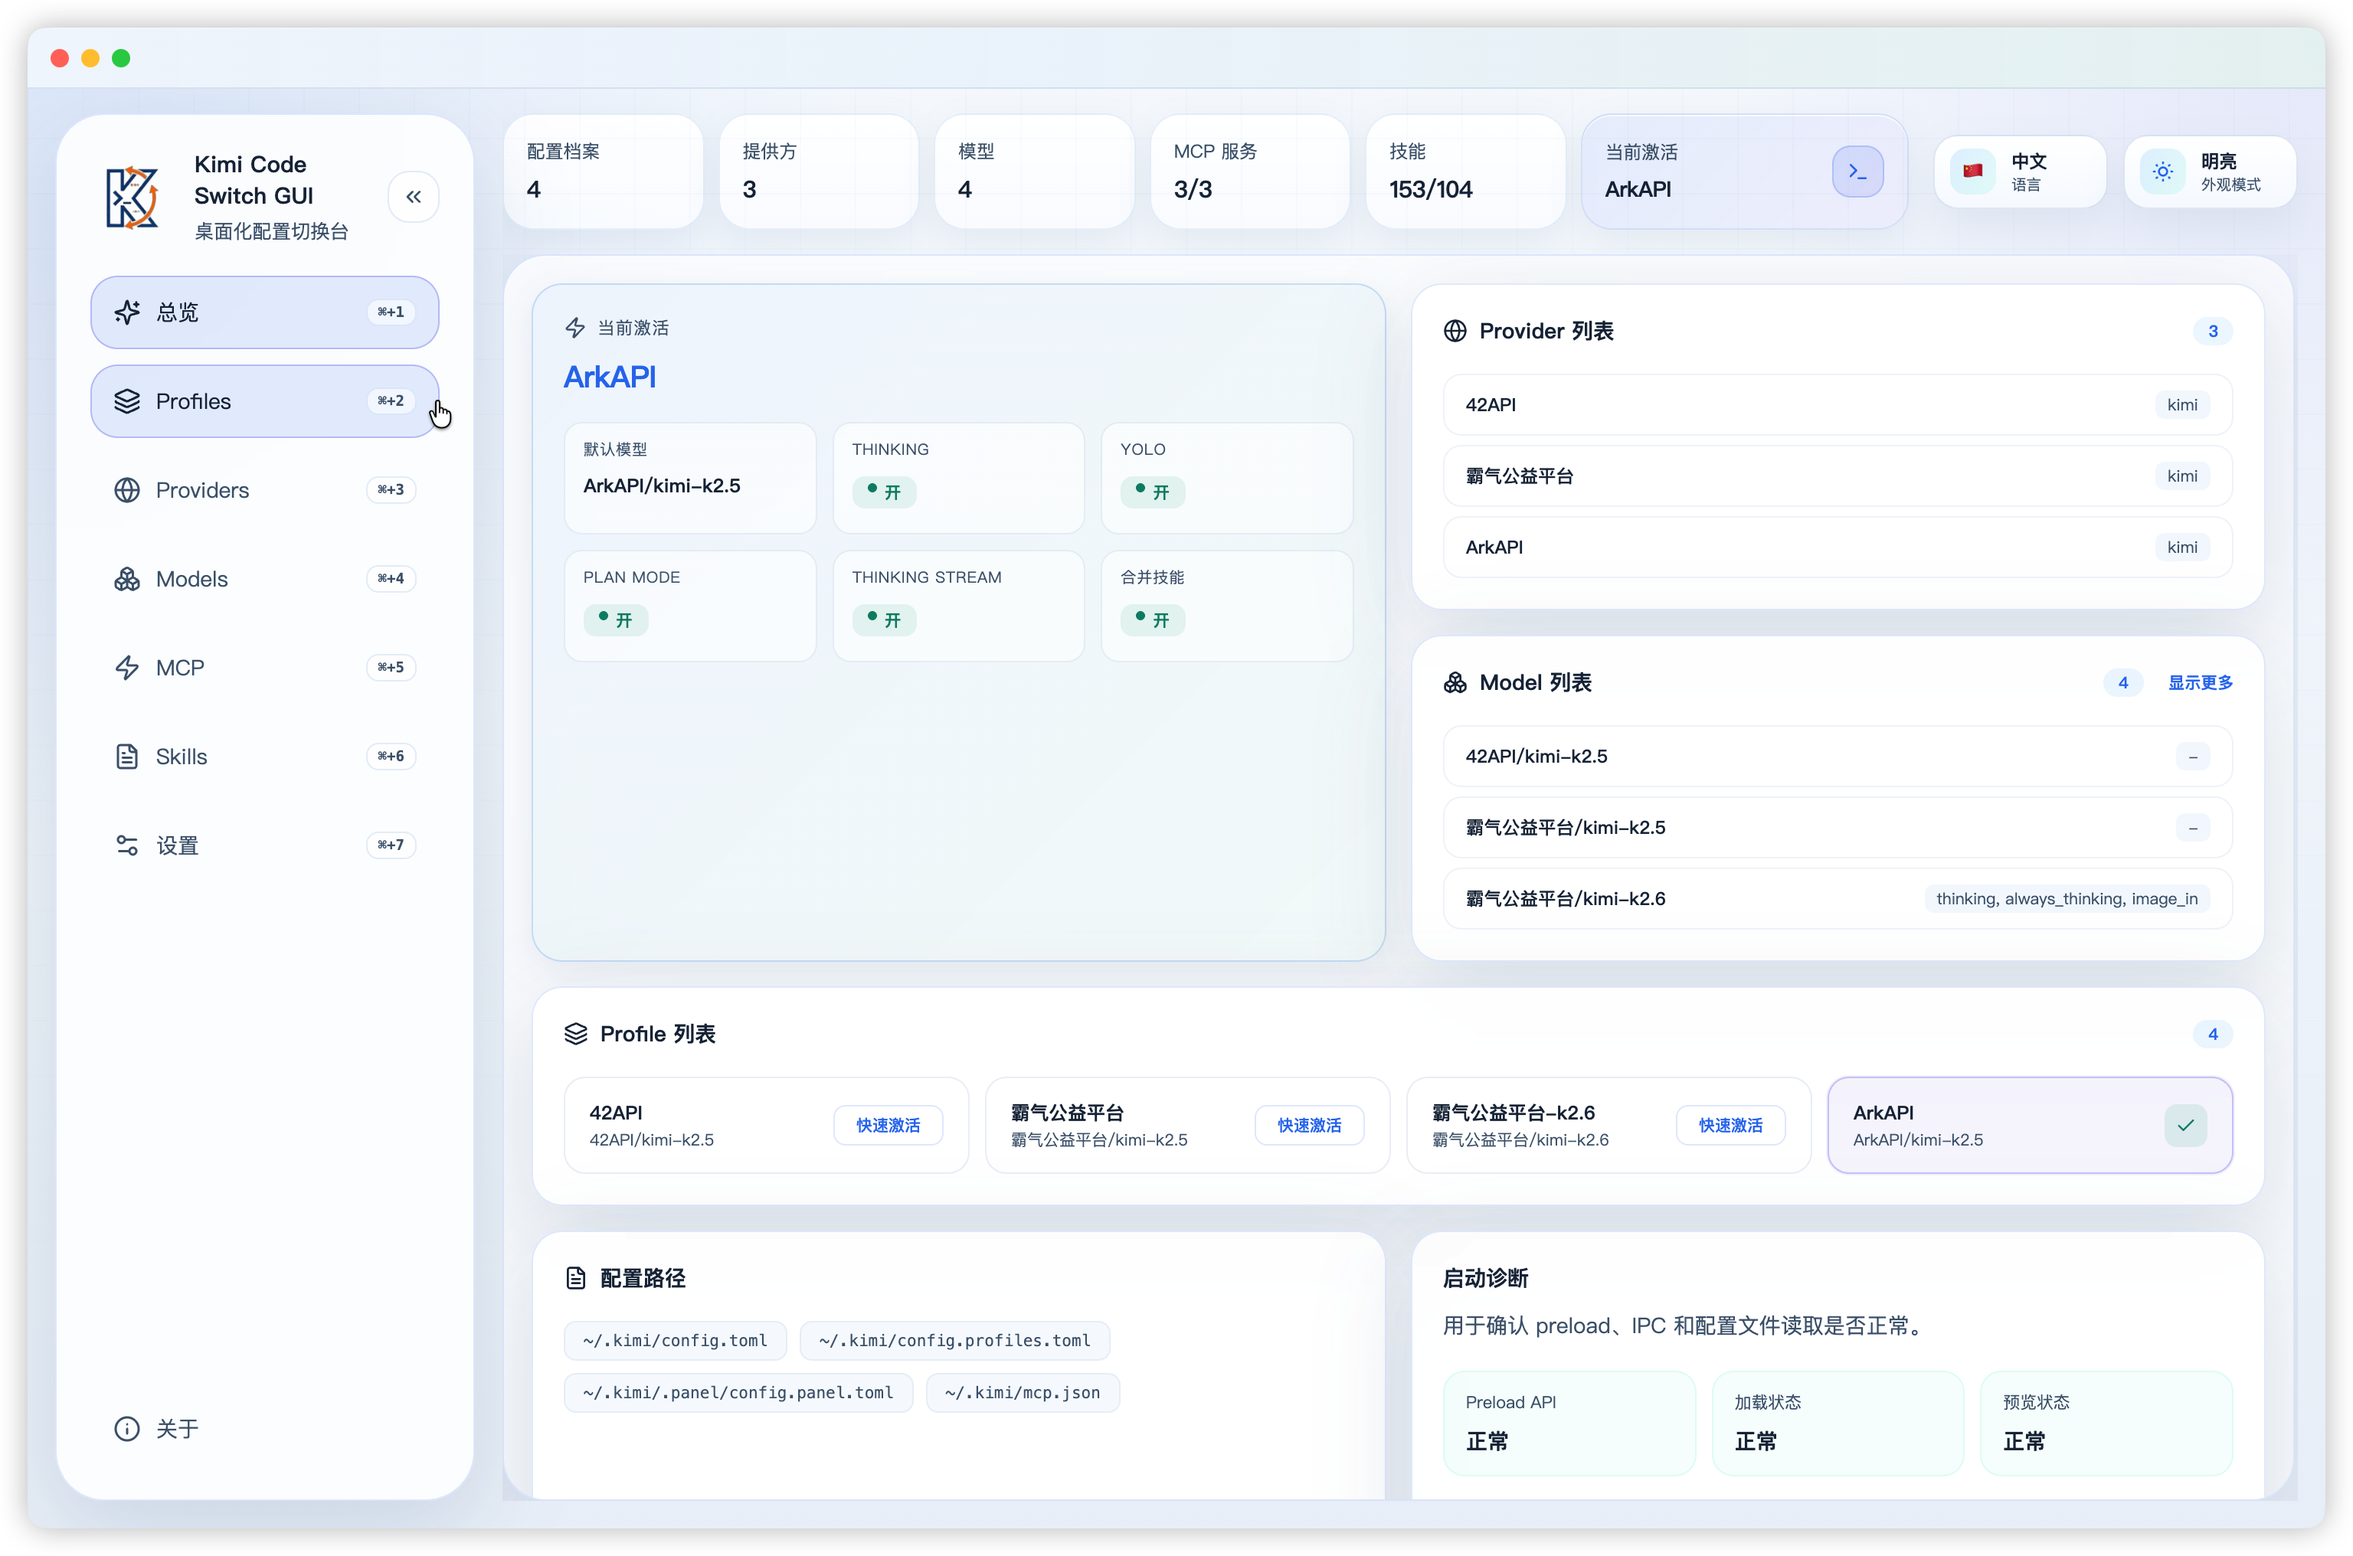
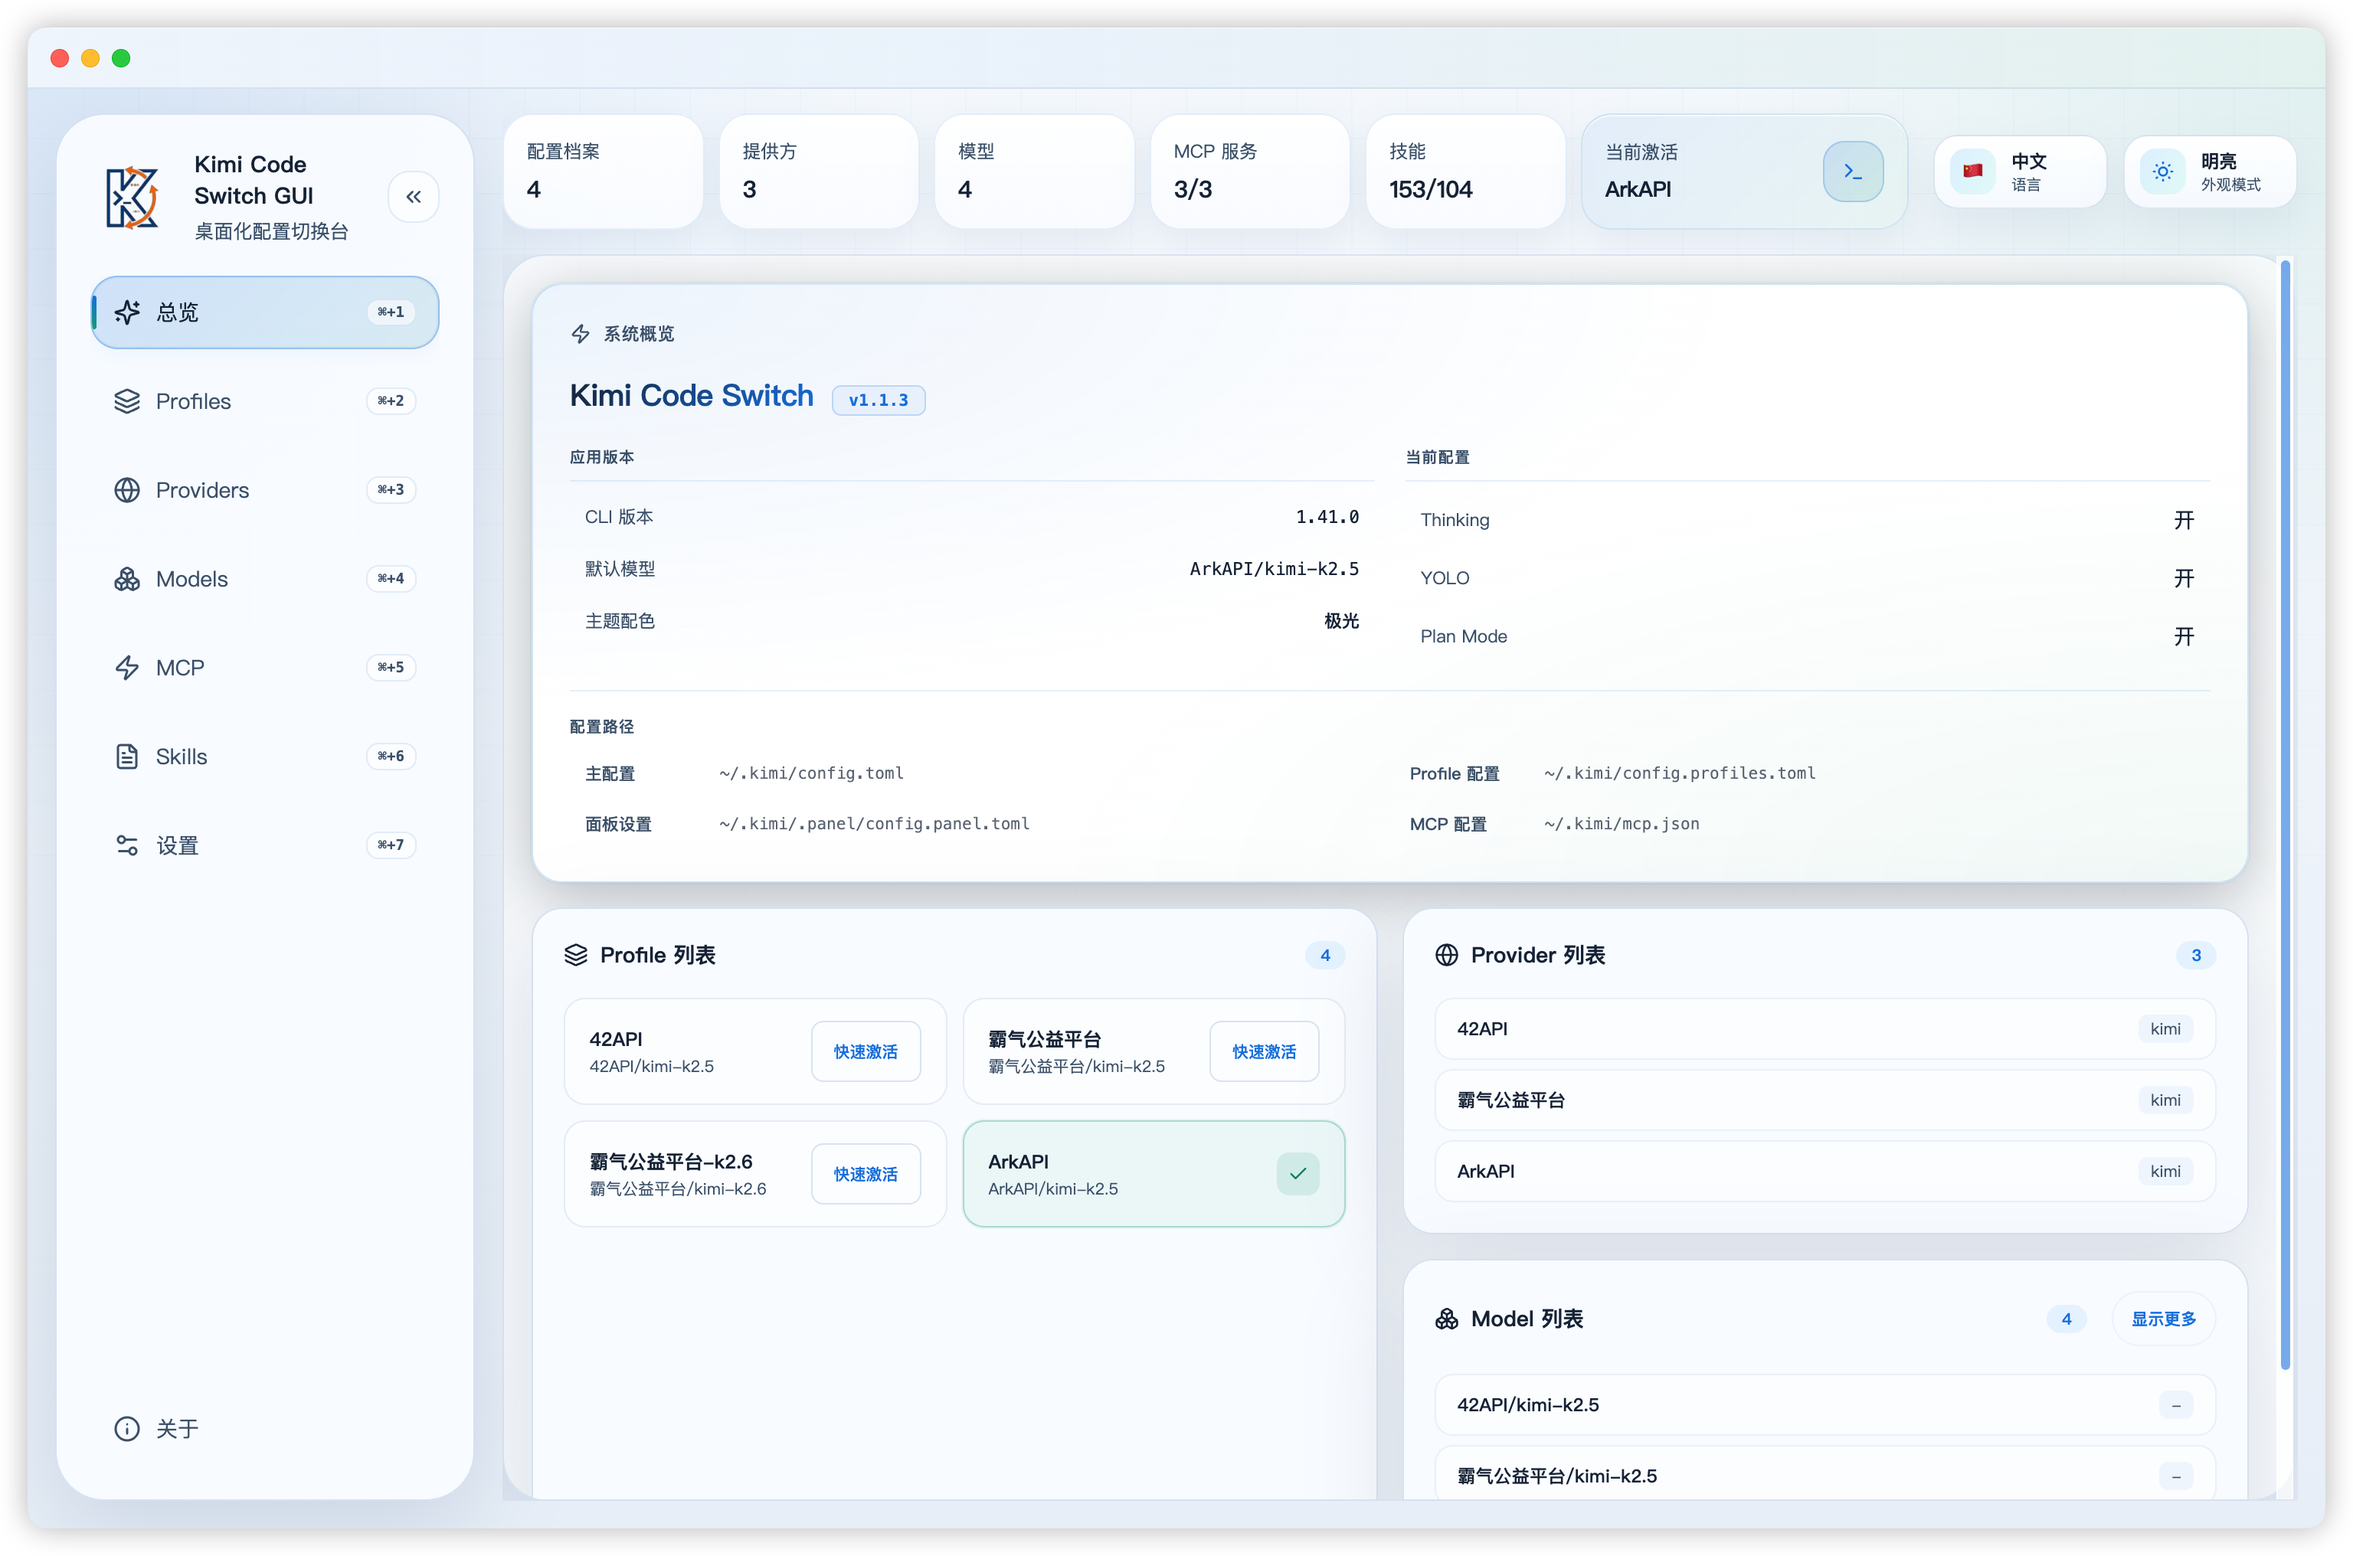
fix: remove transition effects and backdrop filters for improved layout performance

diff --git a/src/renderer/src/styles.css b/src/renderer/src/styles.css
@@ -191,7 +191,7 @@ textarea:focus-visible {
   min-width: 0;
   height: 100vh;
   overflow: hidden;
-  transition: grid-template-columns 200ms cubic-bezier(0.4, 0, 0.2, 1);
+  /* No transition on grid - layout changes are instant */
 }
 
 .shell.sidebar-collapsed {
@@ -210,7 +210,6 @@ textarea:focus-visible {
   background:
     linear-gradient(90deg, rgba(15, 36, 67, 0.96) 0%, rgba(12, 31, 56, 0.88) 42%, rgba(10, 44, 55, 0.82) 100%);
   border-bottom: 1px solid rgba(124, 179, 255, 0.12);
-  backdrop-filter: blur(18px);
 }
 
 :root[data-theme="light"] .window-titlebar {
@@ -236,10 +235,9 @@ textarea:focus-visible {
 }
 
 .glass-panel {
-  background: var(--panel);
+  background: var(--panel-strong);
   border: 1px solid var(--line);
   box-shadow: var(--shadow);
-  backdrop-filter: blur(22px);
 }
 
 .drag-region {
@@ -266,10 +264,7 @@ textarea:focus-visible {
   height: calc(100vh - var(--titlebar-height) - 34px);
   overflow: hidden;
   min-width: 0;
-  transition:
-    width 200ms cubic-bezier(0.4, 0, 0.2, 1),
-    padding 200ms cubic-bezier(0.4, 0, 0.2, 1),
-    border-radius 200ms cubic-bezier(0.4, 0, 0.2, 1);
+  contain: layout style;
 }
 
 .shell.sidebar-collapsed .sidebar {
@@ -298,9 +293,6 @@ textarea:focus-visible {
   place-items: center;
   width: 54px;
   height: 54px;
-  transition:
-    width 200ms cubic-bezier(0.4, 0, 0.2, 1),
-    height 200ms cubic-bezier(0.4, 0, 0.2, 1);
 }
 
 .shell.sidebar-collapsed .brand-mark {
@@ -644,6 +636,7 @@ textarea:focus-visible {
   overflow: hidden;
   min-width: 0;
   min-height: 0;
+  contain: layout style;
 }
 
 .content-scroll {
@@ -694,7 +687,6 @@ textarea:focus-visible {
   background:
     radial-gradient(circle at top, rgba(87, 177, 255, 0.1), transparent 34%),
     rgba(4, 10, 20, 0.26);
-  backdrop-filter: blur(14px) saturate(1.08);
 }
 
 :root[data-theme="light"] .confirm-dialog-backdrop,
@@ -1685,7 +1677,6 @@ textarea:focus-visible {
   border: 1px solid var(--line);
   background: rgba(8, 17, 31, 0.92);
   box-shadow: 0 24px 50px rgba(2, 8, 18, 0.34);
-  backdrop-filter: blur(24px);
   opacity: 0;
   visibility: hidden;
   transform: translateY(8px) scale(0.98);
@@ -2061,7 +2052,6 @@ textarea:focus-visible {
     0 28px 66px rgba(1, 8, 17, 0.42),
     0 0 0 1px rgba(87, 177, 255, 0.08),
     inset 0 1px 0 rgba(255, 255, 255, 0.08);
-  backdrop-filter: blur(24px) saturate(1.25);
   opacity: 0;
   visibility: hidden;
   transform: translateY(10px) scale(0.96);
@@ -2220,7 +2210,6 @@ textarea:focus-visible {
   border-radius: 16px;
   border: 1px solid var(--line);
   box-shadow: 0 14px 30px rgba(1, 9, 18, 0.22);
-  backdrop-filter: blur(18px);
   pointer-events: auto;
 }
 
@@ -2335,9 +2324,8 @@ textarea:focus-visible {
   align-content: start;
   padding: 18px;
   border: 1px solid var(--line);
-  background: rgba(255, 255, 255, 0.03);
+  background: var(--panel-strong);
   box-shadow: var(--shadow);
-  backdrop-filter: blur(22px);
 }
 
 :root[data-theme="light"] .overview-grid {
@@ -3138,7 +3126,6 @@ textarea:focus-visible {
   place-items: center;
   padding: 24px;
   background: rgba(2, 8, 18, 0.18);
-  backdrop-filter: blur(5px) saturate(1.02);
 }
 
 :root[data-theme="light"] .mcp-import-backdrop {
@@ -4417,7 +4404,6 @@ textarea:focus-visible {
   place-items: center;
   padding: 24px;
   background: rgba(2, 8, 18, 0.18);
-  backdrop-filter: blur(5px) saturate(1.02);
 }
 
 :root[data-theme="light"] .document-viewer-backdrop {
@@ -4494,7 +4480,6 @@ textarea:focus-visible {
   place-items: center;
   padding: 24px;
   background: rgba(2, 8, 18, 0.18);
-  backdrop-filter: blur(5px) saturate(1.02);
 }
 
 :root[data-theme="light"] .backup-records-backdrop {
@@ -5607,7 +5592,6 @@ textarea:focus-visible {
   place-items: center;
   padding: 24px;
   background: rgba(2, 8, 18, 0.18);
-  backdrop-filter: blur(5px) saturate(1.02);
 }
 
 :root[data-theme="light"] .skills-detail-dialog-backdrop {

diff --git a/src/renderer/src/tabs/TabPanels.tsx b/src/renderer/src/tabs/TabPanels.tsx
@@ -248,7 +248,7 @@ export function TabPanels(props: TabPanelsProps): JSX.Element {
 
   return (
     <ErrorBoundary>
-      <div className="tab-panel-shell" key={activeTab}>
+      <div className="tab-panel-shell">
         {activeTab === "overview" ? (
           <OverviewDashboard
             state={state}
